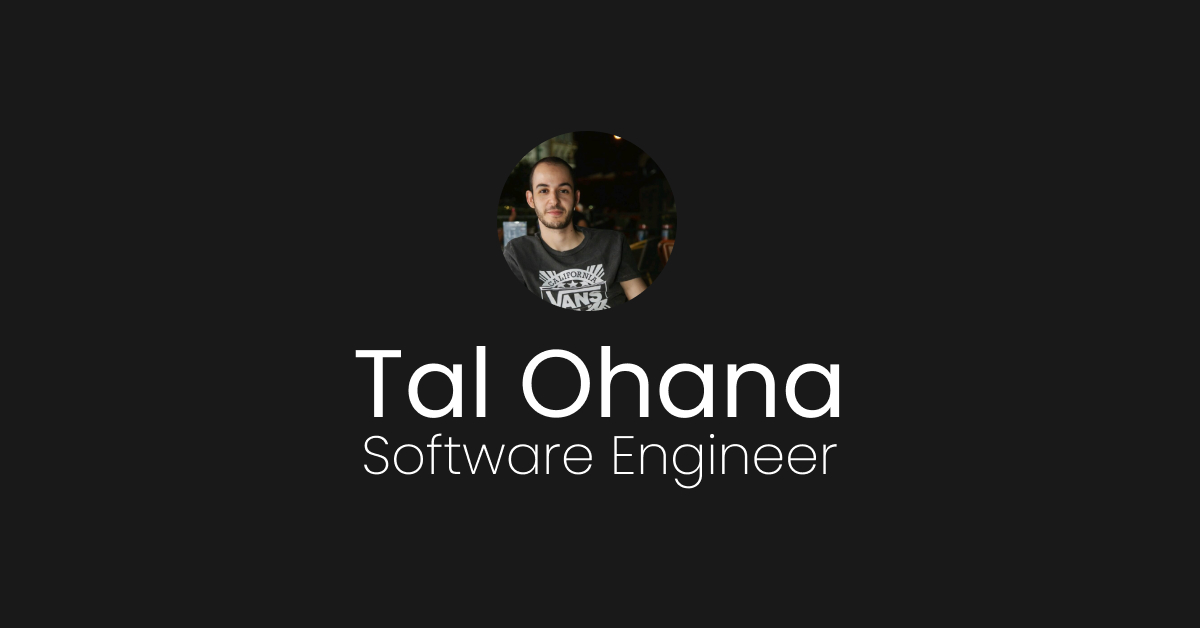
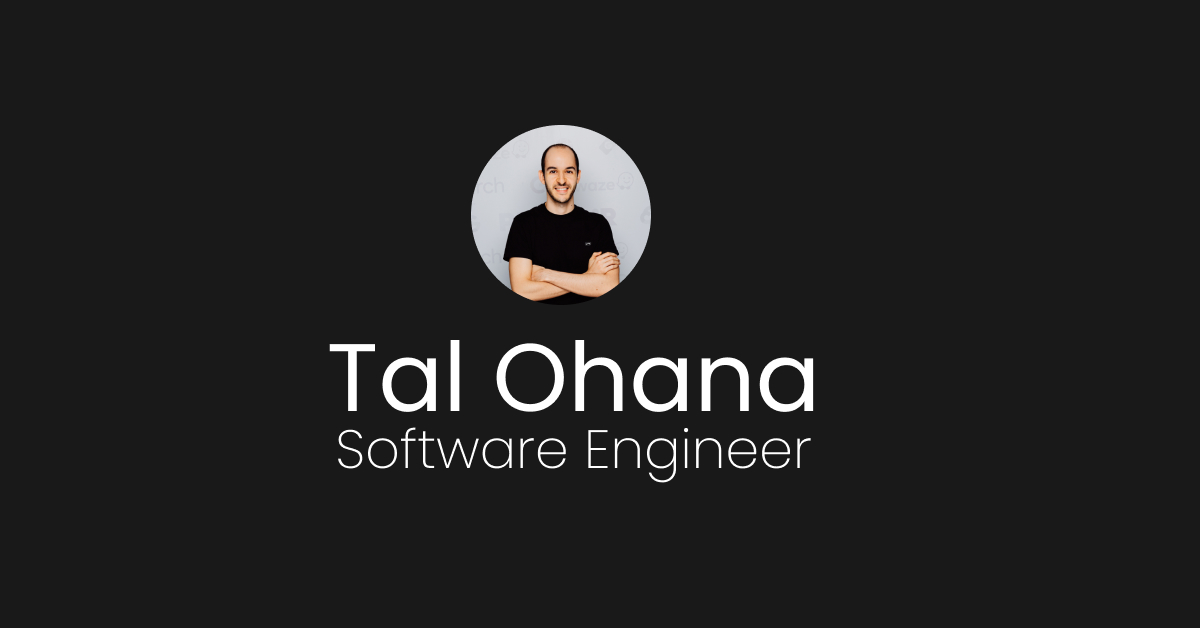
feat: change profile picture and headline (#538)

Changed region(s): [[0.2775, 0.5446, 0.7092, 0.7866], [0.37, 0.1815, 0.5858, 0.5143]]

diff --git a/src/pages/index.tsx b/src/pages/index.tsx
@@ -39,8 +39,8 @@ const Home: React.FC<Props> = ({ posts }) => {
             <Image
               src={me}
               alt="Tal Ohana profile picture"
-              width={150}
-              height={150}
+              width={170}
+              height={170}
               className="rounded-full"
               priority
             />
@@ -61,7 +61,7 @@ const Home: React.FC<Props> = ({ posts }) => {
               </h2>
             </div>
             <h3 className="text-lg font-light">
-              I am a JavaScript, TypeScript and Software Engineering enthusiast!
+              I am a coding and software engineering enthusiast!
             </h3>
           </div>
         </div>
